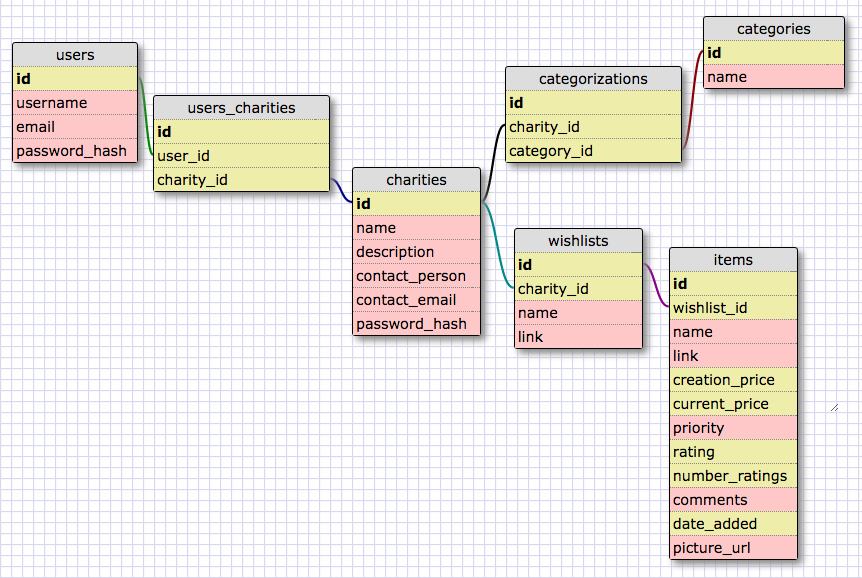
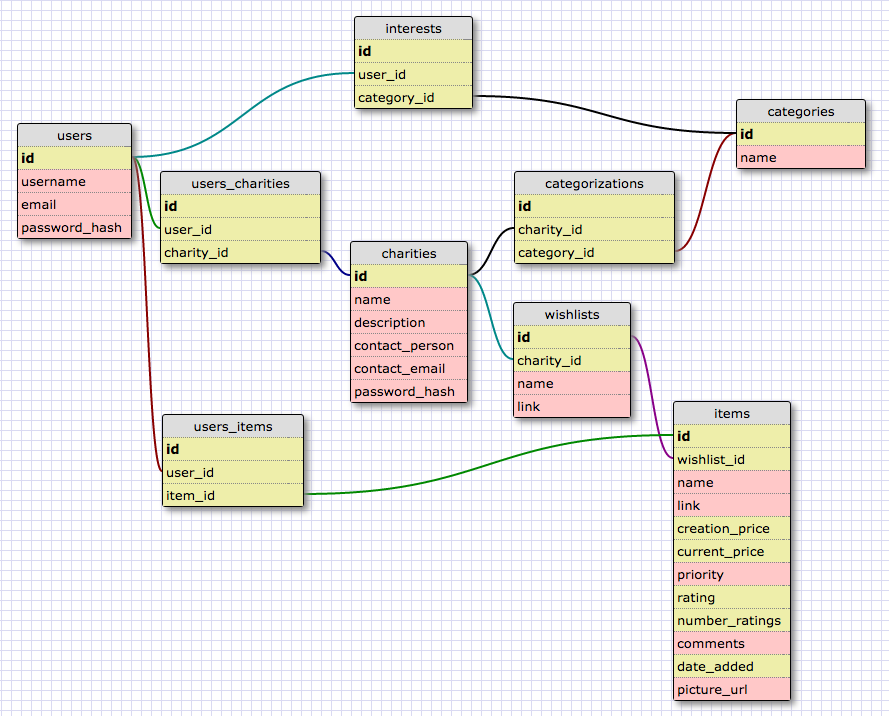
add seeds

diff --git a/app/assets/stylesheets/categories.scss b/app/assets/stylesheets/categories.scss
@@ -1,0 +1,3 @@
+// Place all the styles related to the categories controller here.
+// They will automatically be included in application.css.
+// You can use Sass (SCSS) here: http://sass-lang.com/

diff --git a/app/assets/stylesheets/users_item.scss b/app/assets/stylesheets/users_item.scss
@@ -1,0 +1,3 @@
+// Place all the styles related to the users_item controller here.
+// They will automatically be included in application.css.
+// You can use Sass (SCSS) here: http://sass-lang.com/

diff --git a/app/assets/stylesheets/charities.scss b/app/assets/stylesheets/charities.scss
@@ -1,0 +1,3 @@
+// Place all the styles related to the charities controller here.
+// They will automatically be included in application.css.
+// You can use Sass (SCSS) here: http://sass-lang.com/

diff --git a/app/assets/stylesheets/wishlists.scss b/app/assets/stylesheets/wishlists.scss
@@ -1,0 +1,3 @@
+// Place all the styles related to the wishlists controller here.
+// They will automatically be included in application.css.
+// You can use Sass (SCSS) here: http://sass-lang.com/

diff --git a/app/assets/stylesheets/items.scss b/app/assets/stylesheets/items.scss
@@ -1,0 +1,3 @@
+// Place all the styles related to the items controller here.
+// They will automatically be included in application.css.
+// You can use Sass (SCSS) here: http://sass-lang.com/

diff --git a/app/assets/stylesheets/users.scss b/app/assets/stylesheets/users.scss
@@ -1,0 +1,3 @@
+// Place all the styles related to the users controller here.
+// They will automatically be included in application.css.
+// You can use Sass (SCSS) here: http://sass-lang.com/

diff --git a/db/schema.rb b/db/schema.rb
@@ -1,0 +1,95 @@
+# encoding: UTF-8
+# This file is auto-generated from the current state of the database. Instead
+# of editing this file, please use the migrations feature of Active Record to
+# incrementally modify your database, and then regenerate this schema definition.
+#
+# Note that this schema.rb definition is the authoritative source for your
+# database schema. If you need to create the application database on another
+# system, you should be using db:schema:load, not running all the migrations
+# from scratch. The latter is a flawed and unsustainable approach (the more migrations
+# you'll amass, the slower it'll run and the greater likelihood for issues).
+#
+# It's strongly recommended that you check this file into your version control system.
+
+ActiveRecord::Schema.define(version: 20150807190457) do
+
+  # These are extensions that must be enabled in order to support this database
+  enable_extension "plpgsql"
+
+  create_table "categories", force: :cascade do |t|
+    t.string   "name"
+    t.datetime "created_at", null: false
+    t.datetime "updated_at", null: false
+  end
+
+  create_table "categorizations", force: :cascade do |t|
+    t.integer  "charity_id"
+    t.integer  "category_id"
+    t.datetime "created_at",  null: false
+    t.datetime "updated_at",  null: false
+  end
+
+  create_table "charities", force: :cascade do |t|
+    t.string   "name"
+    t.string   "description"
+    t.string   "contact_name"
+    t.string   "contact_email"
+    t.string   "password_hash"
+    t.datetime "created_at",    null: false
+    t.datetime "updated_at",    null: false
+  end
+
+  create_table "interests", force: :cascade do |t|
+    t.integer  "user_id"
+    t.integer  "category_id"
+    t.datetime "created_at",  null: false
+    t.datetime "updated_at",  null: false
+  end
+
+  create_table "items", force: :cascade do |t|
+    t.integer  "wishlist_id"
+    t.string   "name"
+    t.integer  "creation_price"
+    t.integer  "current_price"
+    t.string   "priority"
+    t.string   "rating"
+    t.integer  "number_ratings"
+    t.string   "comments"
+    t.datetime "date_added"
+    t.string   "picture_url"
+    t.string   "link"
+    t.datetime "created_at",     null: false
+    t.datetime "updated_at",     null: false
+  end
+
+  create_table "users", force: :cascade do |t|
+    t.string   "username"
+    t.string   "email"
+    t.string   "password_hash"
+    t.datetime "created_at",    null: false
+    t.datetime "updated_at",    null: false
+  end
+
+  create_table "users_charities", force: :cascade do |t|
+    t.integer  "user_id"
+    t.integer  "charity_id"
+    t.datetime "created_at", null: false
+    t.datetime "updated_at", null: false
+  end
+
+  create_table "users_items", force: :cascade do |t|
+    t.integer  "user_id"
+    t.integer  "item_id"
+    t.datetime "created_at", null: false
+    t.datetime "updated_at", null: false
+  end
+
+  create_table "wishlists", force: :cascade do |t|
+    t.integer  "charity_id"
+    t.string   "name"
+    t.string   "link"
+    t.datetime "created_at", null: false
+    t.datetime "updated_at", null: false
+  end
+
+end

diff --git a/db/seeds.rb b/db/seeds.rb
@@ -1,3 +1,5 @@
+require 'faker'
+
 # This file should contain all the record creation needed to seed the database with its default values.
 # The data can then be loaded with the rake db:seed (or created alongside the db with db:setup).
 #
@@ -7,4 +9,39 @@
 #   Mayor.create(name: 'Emanuel', city: cities.first)
 
 
-User.create()
+cat = []
+cat << Category.create(name:"Environment")
+cat << Category.create(name:"Education")
+cat << Category.create(name:"Animal Advocacy")
+cat << Category.create(name:"Social Services")
+cat << Category.create(name:"Children")
+cat << Category.create(name:"Health")
+cat << Category.create(name:"Economic Empowerment")
+cat << Category.create(name:"Religious")
+cat << Category.create(name:"International")
+
+char = []
+char << Charity.create(name:"Penguin International", description: Faker::Lorem.paragraph, contact_name: Faker::Name.name, contact_email: Faker::Internet.email , password_hash:"password")
+char << Charity.create(name:"Fund For Space Cats", description: Faker::Lorem.paragraph, contact_name: Faker::Name.name, contact_email: Faker::Internet.email , password_hash:"password")
+char << Charity.create(name:"Trees and Love", description: Faker::Lorem.paragraph, contact_name: Faker::Name.name, contact_email: Faker::Internet.email , password_hash:"password")
+char << Charity.create(name:"Open Door Mission", description: Faker::Lorem.paragraph, contact_name: Faker::Name.name, contact_email: Faker::Internet.email , password_hash:"password")
+char << Charity.create(name:"Island House", description: Faker::Lorem.paragraph, contact_name: Faker::Name.name, contact_email: Faker::Internet.email , password_hash:"password")
+
+users_array = []
+10.times do
+  us = User.create(username:Faker::Name.name,email:Faker::Internet.email,password_hash:"password")
+  us.categories << cat.sample(2)
+  us.charities << char.sample(2)
+  users_array << us
+end
+
+char.each do |ch|
+  new_wishlist = Wishlist.create(name:"Our Wishlist")
+  ch.wishlists << new_wishlist
+  10.times do
+    it = Item.create(name:Faker::Commerce.product_name, current_price:(rand(50) + 1))
+    it.users << users_array.sample
+  end
+end
+
+

diff --git a/db/migrate/20150807155445_create_charities.rb b/db/migrate/20150807155445_create_charities.rb
@@ -3,7 +3,7 @@ class CreateCharities < ActiveRecord::Migration
     create_table :charities do |t|
       t.string :name
       t.string :description
-      t.string :contact_person
+      t.string :contact_name
       t.string :contact_email
       t.string :password_hash
 

diff --git a/db/migrate/20150807155412_create_users_charities.rb b/db/migrate/20150807155412_create_users_charities.rb
@@ -2,7 +2,7 @@ class CreateUsersCharities < ActiveRecord::Migration
   def change
     create_table :users_charities do |t|
       t.references :user
-      t.references :users_charity
+      t.references :charity
 
       t.timestamps null: false
     end

diff --git a/app/models/user.rb b/app/models/user.rb
@@ -3,5 +3,6 @@ class User < ActiveRecord::Base
   has_many :charities, through: :users_charities
   has_many :interests
   has_many :categories, through: :interests
-
+  has_many :users_items
+  has_many :items, through: :users_items
 end

diff --git a/app/models/item.rb b/app/models/item.rb
@@ -1,4 +1,6 @@
 class Item < ActiveRecord::Base
   belongs_to :wishlist
-  belongs_to :charity, through: :wishlist
+  has_one :charity, through: :wishlist
+  has_many  :users_items
+  has_many :users, through: :users_items
 end
